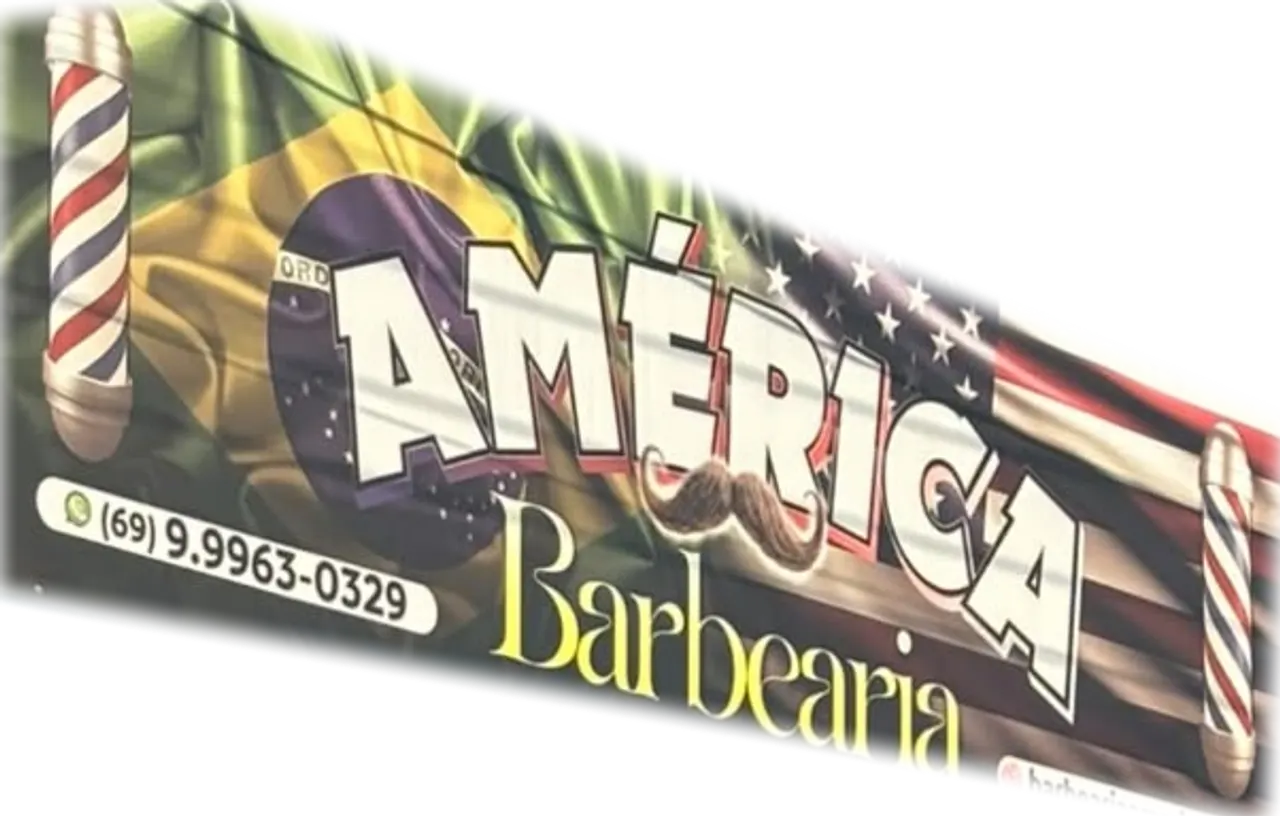
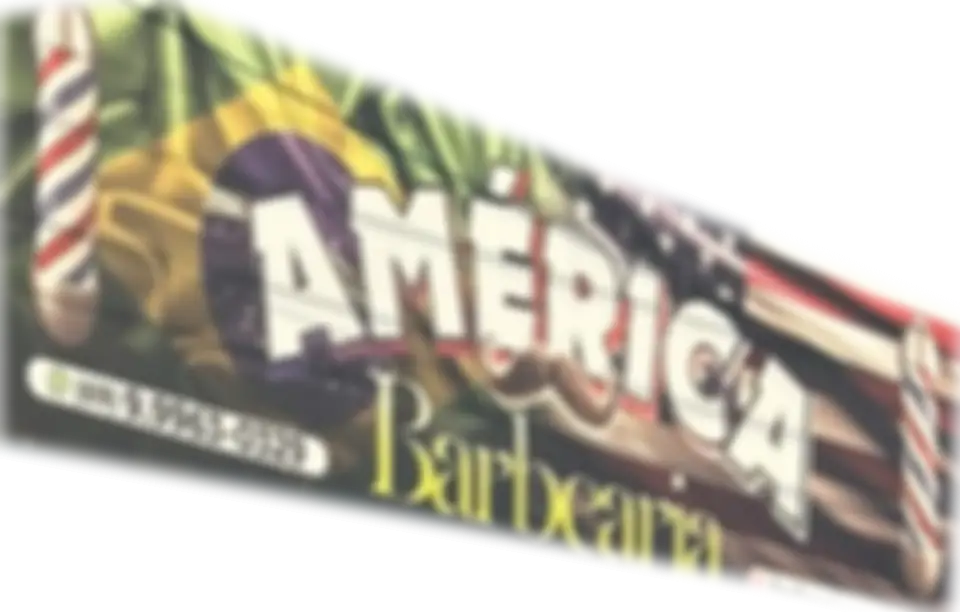
feat(america): cor com funcao, letreiro condensado, entrada ao rolar e fundo leve (up de estilo pela skill de design)
Critica da skill de design aplicada a pagina: o dourado fazia tudo, o verde quase nao aparecia, as secoes tinham o mesmo fundo, os
efeitos nao seguiam uma logica de cor e faltava o letreiro condensado da porta.

Cor com funcao:
- dourado = cortar e agendar; verde = aprender (cursos, quiz, bordas, brilhos e fio da secao); vermelho = so a estrela do letreiro;
  prata = texto de apoio. O verde nunca e texto pequeno (3,6:1): so linha, borda e brilho.
- fundo das secoes alterna (carvao e um degrau abaixo); "Quem ensina" ganha um brilho verde suave.

Letra:
- Barlow Condensed 600 (um arquivo) em caixa-alta nos rotulos de secao (estrela vermelha + fio), na faixa e no contador do quiz.
- titulos h1 e h2 em Cormorant 700, no peso da letra pesada da placa.

Efeitos amarrados a cor:
- cartoes e fotos sobem e aparecem ao entrar na tela (CSS animation-timeline: view(), sem JavaScript de rolagem; some com
  prefers-reduced-motion).
- hover: cartoes sobem 3 px com sombra tingida da cor da secao; fotos de servico ganham borda e sombra douradas, SEM zoom.

Desempenho (LCP medido em 6,7 s por causa do desfoque em tempo real e da revelacao longa da foto):
- fundo da placa agora vem desfocado no proprio arquivo (960 px, 34 KB em vez de 87 KB), sem filter/transform no CSS,
  com fetchpriority=low para nao competir com a foto do Mateus.
- revelacao da foto do Mateus de 1000 para 650 ms.

diff --git a/app/america/america.css b/app/america/america.css
@@ -168,7 +168,7 @@ html:has(.america) {
   position: absolute;
   inset: 16px -16px -16px 16px;
   border: 1px solid var(--linha-ouro);
-  animation: am-desliza 900ms cubic-bezier(0.2, 0.7, 0.2, 1) 650ms both;
+  animation: am-desliza 800ms cubic-bezier(0.2, 0.7, 0.2, 1) 380ms both;
 }
 .america .am-moldura__foto {
   position: relative;
@@ -177,7 +177,8 @@ html:has(.america) {
   width: 100%;
   height: auto;
   border-radius: 2px;
-  animation: am-revela 1000ms cubic-bezier(0.7, 0, 0.2, 1) 200ms both;
+  /* revelação curta: o Chrome só conta a foto como "pintada" (LCP) conforme a área aparece, então quanto mais longa, pior o LCP */
+  animation: am-revela 650ms cubic-bezier(0.7, 0, 0.2, 1) 80ms both;
 }
 .america .am-selo-hero {
   position: absolute;
@@ -475,11 +476,9 @@ html:has(.america) {
   height: 100%;
   object-fit: cover;
   object-position: 20% 35%;
-  opacity: 0.27;
-  /* borrado de propósito: vira luz ambiente (verde e amarelo do Brasil, vermelho e branco dos EUA) e o telefone e as letras da
-     placa não ficam legíveis atrás do texto */
-  filter: blur(4px) saturate(1.15);
-  transform: scale(1.06);
+  opacity: 0.32;
+  /* O arquivo já vem desfocado (scripts/gerar-hero-america.mjs): vira luz ambiente (verde e amarelo do Brasil, vermelho e branco
+     dos EUA) e o telefone e as letras da placa não ficam legíveis. Sem filtro em tempo real: ele atrasou o primeiro desenho. */
   animation: am-aparece 1400ms ease both;
 }
 .america .hero-fundo::after {
@@ -530,6 +529,118 @@ html:has(.america) {
   color: var(--ouro);
   transform: translateY(3px);
 }
+/* ===== Cor com função =====
+   dourado = cortar e agendar · verde = aprender (cursos, quiz, bordas e brilhos da seção) · vermelho = só a estrela do letreiro ·
+   prata = texto de apoio. O verde nunca é texto pequeno (3,6:1): só linha, borda e brilho. */
+.america {
+  --fundo2: #101316; /* um degrau abaixo do carvão: as seções alternam para a página ter profundidade */
+}
+.america .am-sec--fundo {
+  background: var(--fundo2);
+}
+.america .am-sec--verde.am-sec--fundo {
+  background: radial-gradient(900px circle at 18% 45%, rgb(63 122 79 / 0.12), transparent 62%), var(--fundo2);
+}
+/* Rótulo de seção: letreiro da porta (estrela vermelha, caixa-alta condensada, fio) */
+.america .am-kicker {
+  display: flex;
+  align-items: center;
+  gap: 12px;
+  margin-bottom: 22px;
+  font-family: var(--font-rotulo), 'Arial Narrow', sans-serif;
+  font-size: 1rem;
+  letter-spacing: 0.22em;
+  text-transform: uppercase;
+  color: var(--muted);
+}
+.america .am-kicker__estrela {
+  font-size: 0.8rem;
+  color: var(--vermelho);
+}
+.america .am-kicker::after {
+  content: '';
+  width: 44px;
+  height: 1px;
+  background: var(--ouro);
+}
+.america .am-sec--verde .am-kicker::after {
+  background: var(--verde);
+}
+/* Títulos mais firmes, no peso da letra pesada da placa */
+.america h1.am-serif,
+.america h2.am-serif {
+  font-weight: 700;
+}
+/* Cartões: no hover sobem um pouco e ganham sombra tingida da cor da seção (dourado nos serviços e contato, verde nos cursos) */
+.america .am-card {
+  transition: border-color 0.2s, transform 0.25s, box-shadow 0.25s;
+}
+.america .am-card:hover {
+  transform: translateY(-3px);
+  box-shadow: 0 16px 38px -20px rgb(201 176 74 / 0.5);
+}
+.america .am-sec--verde .am-card {
+  border-top-color: var(--verde);
+}
+.america .am-sec--verde .am-card:hover {
+  border-color: rgb(63 122 79 / 0.7);
+  border-top-color: var(--verde);
+  box-shadow: 0 16px 38px -20px rgb(63 122 79 / 0.65);
+}
+/* Fotos de serviço: sem zoom (a foto aparece inteira); só a borda e uma sombra dourada */
+.america .am-foto {
+  transition: border-color 0.2s, box-shadow 0.25s;
+}
+.america .am-foto:hover {
+  box-shadow: 0 16px 38px -20px rgb(201 176 74 / 0.5);
+}
+/* Quiz dentro da seção dos cursos: o verde do "aprender" */
+.america .am-sec--verde .am-quiz .am-regua {
+  background: var(--verde);
+}
+.america .am-sec--verde .am-quiz__progresso > .is-feito {
+  background: var(--verde);
+}
+.america .am-sec--verde .am-quiz__progresso > .is-atual {
+  background: rgb(63 122 79 / 0.55);
+}
+.america .am-sec--verde .am-opcao::before {
+  background: var(--verde);
+}
+.america .am-sec--verde .am-opcao:hover,
+.america .am-sec--verde .am-opcao:focus-visible {
+  border-color: rgb(63 122 79 / 0.75);
+  background: rgb(63 122 79 / 0.1);
+}
+.america .am-sec--verde .am-quiz::before {
+  background: radial-gradient(380px circle at var(--mx, 50%) var(--my, 50%), rgb(63 122 79 / 0.18), transparent 62%);
+}
+.america .am-quiz__contador {
+  font-family: var(--font-rotulo), 'Arial Narrow', sans-serif;
+  font-size: 1.05rem;
+}
+/* Entrada ao rolar, só CSS (sem JavaScript de rolagem): cartões e fotos sobem e aparecem ao entrar na tela.
+   "backwards": depois da entrada o elemento volta ao estilo normal (o hover continua funcionando). */
+@media (prefers-reduced-motion: no-preference) {
+  @supports (animation-timeline: view()) {
+    .america .am-revela {
+      animation: am-revela-rolar linear backwards;
+      animation-timeline: view();
+      animation-range: entry 0% entry 45%;
+    }
+  }
+}
+@keyframes am-revela-rolar {
+  from {
+    opacity: 0;
+    transform: translateY(22px);
+  }
+  to {
+    opacity: 1;
+    transform: none;
+  }
+}
+
 /* A frase da porta, com as estrelas vermelhas de cada lado */
 .america .am-faixa {
   display: flex;
@@ -542,8 +653,9 @@ html:has(.america) {
   background: var(--surf);
 }
 .america .am-faixa p {
-  font-size: 0.82rem;
-  letter-spacing: 0.22em;
+  font-family: var(--font-rotulo), 'Arial Narrow', sans-serif;
+  font-size: 1rem;
+  letter-spacing: 0.24em;
   text-transform: uppercase;
   color: var(--muted);
 }
@@ -665,6 +777,8 @@ html:has(.america) {
     animation: none;
   }
   .america .am-zap,
+  .america .am-card,
+  .america .am-foto,
   .america .am-opcao,
   .america .am-opcao::before,
   .america .am-opcao__seta,

diff --git a/components/landing-america/cursos.tsx b/components/landing-america/cursos.tsx
@@ -1,14 +1,15 @@
 import { tenantConfig } from '@/config/tenant'
 import { CURSOS, ORDEM_DOS_CURSOS, linkWhatsapp, mensagemDoCurso } from '@/lib/landing-america'
 import { QuizCurso } from './quiz'
+import { Kicker } from './kicker'
 
 // Os três cursos como "portas": cada cartão mostra o nome e uma pergunta. Como funciona, turmas e valores ficam para a conversa
 // no WhatsApp (é o objetivo da página). O que o cartão afirma é só o que o dono já disse: os três cursos existem e quem ensina é ele.
 export function Cursos() {
   return (
-    <section id="cursos" aria-labelledby="cursos-titulo" data-sem-zap className="am-sec">
+    <section id="cursos" aria-labelledby="cursos-titulo" data-sem-zap className="am-sec am-sec--verde">
       <div className="mx-auto max-w-6xl px-4 py-20 sm:px-6 md:py-28">
-        <span className="am-regua" aria-hidden="true" />
+        <Kicker>Quero aprender</Kicker>
         <h2 id="cursos-titulo" className="am-serif text-4xl sm:text-5xl">
           Cursos da América
         </h2>
@@ -20,7 +21,7 @@ export function Cursos() {
           {ORDEM_DOS_CURSOS.map((id) => {
             const curso = CURSOS[id]
             return (
-              <article key={id} className="am-card">
+              <article key={id} className="am-card am-revela">
                 <h3 className="am-serif text-3xl leading-tight">{curso.titulo}</h3>
                 <p className="am-serif am-ouro-claro text-xl font-medium italic leading-snug">{curso.gancho}</p>
                 <p className="am-muted text-sm">Conteúdo, turmas e valores: conversamos pelo WhatsApp.</p>

diff --git a/app/america/page.tsx b/app/america/page.tsx
@@ -1,5 +1,5 @@
 import type { Metadata } from 'next'
-import { Cormorant_Garamond, Pinyon_Script } from 'next/font/google'
+import { Barlow_Condensed, Cormorant_Garamond, Pinyon_Script } from 'next/font/google'
 import { tenantConfig } from '@/config/tenant'
 import { cn } from '@/lib/utils'
 import { linkWhatsapp, mensagemGeral } from '@/lib/landing-america'
@@ -27,6 +27,15 @@ const display = Cormorant_Garamond({
   display: 'swap',
 })
 
+// O letreiro da porta ("BARBA - CABELO - BIGODE") é em caixa-alta condensada: Barlow Condensed nos rótulos de seção, na faixa e
+// no contador do quiz. Um só peso (600), um só arquivo, para não pesar no LCP.
+const rotulo = Barlow_Condensed({
+  subsets: ['latin'],
+  weight: '600',
+  variable: '--font-rotulo',
+  display: 'swap',
+})
+
 // A palavra "Barbearia" do logotipo é manuscrita na placa da fachada; é o único uso de letra manuscrita da página.
 const script = Pinyon_Script({
   subsets: ['latin'],
@@ -46,7 +55,7 @@ export const metadata: Metadata = {
 
 export default function AmericaPage() {
   return (
-    <main data-tema="america" className={cn(display.variable, script.variable, 'america min-h-screen antialiased')}>
+    <main data-tema="america" className={cn(display.variable, script.variable, rotulo.variable, 'america min-h-screen antialiased')}>
       <a
         href="#conteudo"
         className="sr-only focus:not-sr-only focus:fixed focus:left-3 focus:top-3 focus:z-50 focus:bg-[#c9b04a] focus:px-4 focus:py-3 focus:text-[#14171a]"

diff --git a/components/landing-america/trabalhos.tsx b/components/landing-america/trabalhos.tsx
@@ -2,6 +2,7 @@ import Link from 'next/link'
 import { tenantConfig } from '@/config/tenant'
 import { CURSO_DA_FOTO, FOTOS, fotoDoServico, type FotoId } from '@/config/landing-america'
 import { CURSOS, linkWhatsapp, mensagemDoCurso } from '@/lib/landing-america'
+import { Kicker } from './kicker'
 
 // Cada card mostra a foto INTEIRA, na proporção original (sem recorte e sem zoom), com o nome do serviço.
 // A foto do hero (combo) também está aqui: é o serviço Combo. O toque na foto abre o arquivo em tamanho grande.
@@ -21,7 +22,7 @@ export function Trabalhos() {
   return (
     <section id="servicos" aria-labelledby="servicos-titulo" className="am-sec">
       <div className="mx-auto max-w-6xl px-4 py-20 sm:px-6 md:py-28">
-        <span className="am-regua" aria-hidden="true" />
+        <Kicker>Quero cortar</Kicker>
         <h2 id="servicos-titulo" className="am-serif text-4xl sm:text-5xl">
           Serviços da casa
         </h2>
@@ -34,7 +35,7 @@ export function Trabalhos() {
             const foto = FOTOS[fotoId]
             const curso = CURSOS[CURSO_DA_FOTO[fotoId]]
             return (
-              <article key={fotoId}>
+              <article key={fotoId} className="am-revela">
                 <a
                   href={foto.src}
                   target="_blank"

diff --git a/components/landing-america/contato.tsx b/components/landing-america/contato.tsx
@@ -1,6 +1,7 @@
 import { Clock, Instagram, MapPin, Phone } from 'lucide-react'
 import { tenantConfig } from '@/config/tenant'
 import { enderecoSemCep, linkDoMapa, linkWhatsapp, mensagemGeral } from '@/lib/landing-america'
+import { Kicker } from './kicker'
 
 // Horário, endereço, Instagram, WhatsApp e mapa: tudo vem do tenantConfig (uma fonte só, a mesma do resto do sistema).
 export function Contato() {
@@ -10,9 +11,9 @@ export function Contato() {
     { icone: Instagram, rotulo: 'Instagram', valor: tenantConfig.instagram, link: tenantConfig.instagramLink },
   ]
   return (
-    <section id="contato" aria-labelledby="contato-titulo" data-sem-zap className="am-sec">
+    <section id="contato" aria-labelledby="contato-titulo" data-sem-zap className="am-sec am-sec--fundo">
       <div className="mx-auto max-w-5xl px-4 py-20 sm:px-6 md:py-28">
-        <span className="am-regua" aria-hidden="true" />
+        <Kicker>Visite a casa</Kicker>
         <h2 id="contato-titulo" className="am-serif text-4xl sm:text-5xl">
           Venha à América
         </h2>

diff --git a/components/landing-america/quem-ensina.tsx b/components/landing-america/quem-ensina.tsx
@@ -1,15 +1,16 @@
 import { tenantConfig } from '@/config/tenant'
 import { linkWhatsapp, mensagemSobreOsCursos } from '@/lib/landing-america'
 import { Selo } from './selo'
+import { Kicker } from './kicker'
 
 // Só o que o dono confirmou: o Mateus Cremas é barbeiro, dono da América e quem ensina os cursos.
 export function QuemEnsina() {
   return (
-    <section id="quem-ensina" aria-labelledby="quem-titulo" className="am-sec">
+    <section id="quem-ensina" aria-labelledby="quem-titulo" className="am-sec am-sec--fundo am-sec--verde">
       <div className="mx-auto grid max-w-5xl items-center gap-12 px-4 py-20 sm:px-6 md:grid-cols-[minmax(0,220px)_1fr] md:gap-20 md:py-28">
         <Selo className="mx-auto w-44 md:w-full" id="am-selo-ensina" />
-        <div>
-          <span className="am-regua" aria-hidden="true" />
+        <div className="am-revela">
+          <Kicker>Quem ensina</Kicker>
           <h2 id="quem-titulo" className="am-serif text-4xl sm:text-5xl">
             Mateus Cremas
           </h2>

diff --git a/config/landing-america.ts b/config/landing-america.ts
@@ -25,7 +25,8 @@ export type FotoId = keyof typeof FOTOS
 // A foto do Mateus Cremas (barbeiro e dono) aparece inteira, na proporção original.
 export const FOTO_MATEUS: Foto = { src: '/assets/america/mateus.webp', width: 1007, height: 646 }
 // Miolo da placa da fachada (bandeiras do Brasil e dos EUA), sem a parede azul; só textura de fundo, bem escurecida pelo CSS.
-export const FUNDO_PLACA: Foto = { src: '/assets/america/fundo-placa.webp', width: 1280, height: 816 }
+// (já desfocada no arquivo, 960x612: o CSS não usa filtro em tempo real)
+export const FUNDO_PLACA: Foto = { src: '/assets/america/fundo-placa.webp', width: 960, height: 612 }
 
 // O serviço do tenantConfig aponta para o arquivo original (/assets/corte.jpeg): daqui sai a foto otimizada.
 export const FOTO_DO_ARQUIVO: Record<string, FotoId> = {

diff --git a/components/landing-america/hero.tsx b/components/landing-america/hero.tsx
@@ -14,7 +14,7 @@ export function Hero() {
   return (
     <section id="inicio" className="hero-secao">
       <div className="hero-fundo" aria-hidden="true">
-        <img src={FUNDO_PLACA.src} width={FUNDO_PLACA.width} height={FUNDO_PLACA.height} alt="" decoding="async" />
+        <img src={FUNDO_PLACA.src} width={FUNDO_PLACA.width} height={FUNDO_PLACA.height} alt="" decoding="async" fetchPriority="low" />
       </div>
       <div className="relative mx-auto grid max-w-6xl items-center gap-14 px-4 pb-24 pt-12 sm:px-6 md:grid-cols-[1fr_1fr] md:gap-16 md:pb-32 md:pt-20">
         <div className="hero-texto">

diff --git a/components/landing-america/kicker.tsx b/components/landing-america/kicker.tsx
@@ -1,0 +1,12 @@
+// Rótulo de seção no estilo do letreiro da porta: estrela vermelha, caixa-alta condensada e um fio dourado.
+// Diz de que lado da casa a seção é, espelhando os dois chamados do início: "Quero cortar" (serviços) e "Quero aprender" (cursos).
+export function Kicker({ children }: { children: React.ReactNode }) {
+  return (
+    <p className="am-kicker">
+      <span className="am-kicker__estrela" aria-hidden="true">
+        ★
+      </span>
+      <span>{children}</span>
+    </p>
+  )
+}
